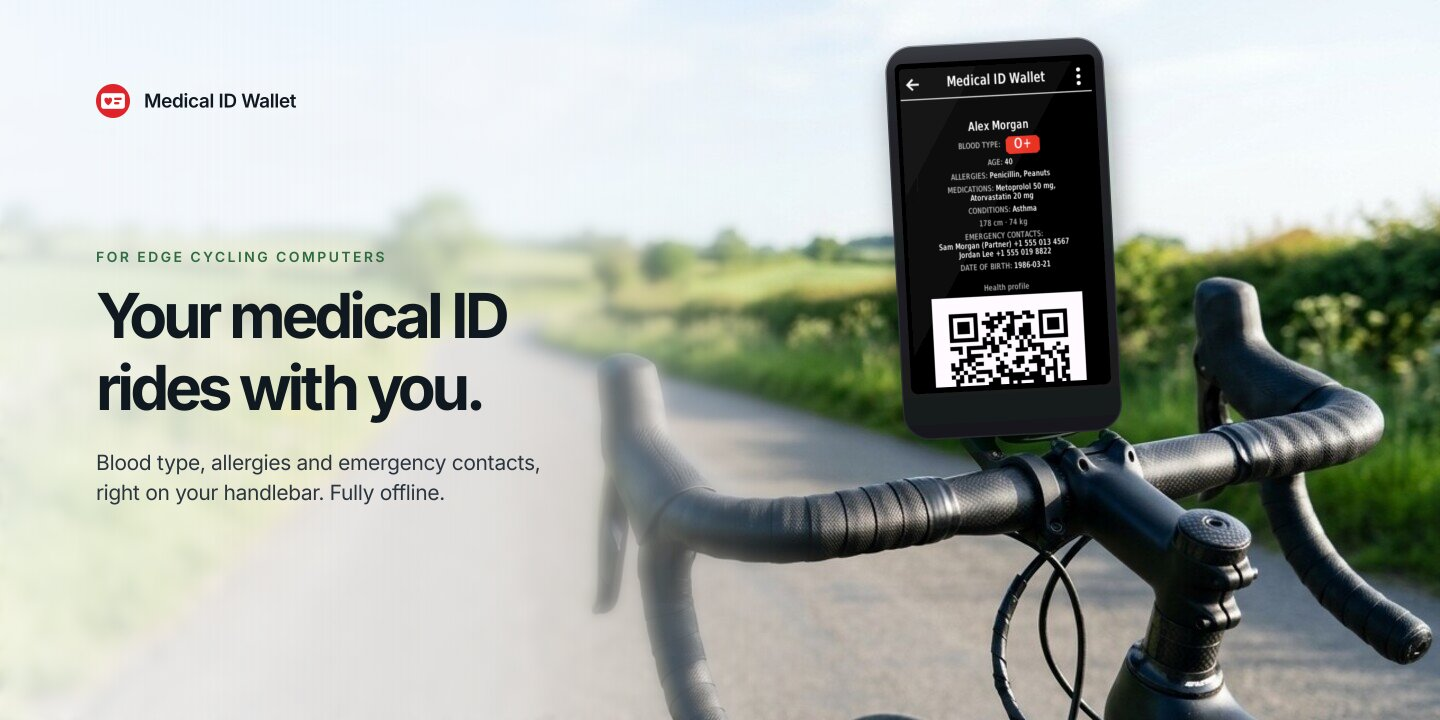
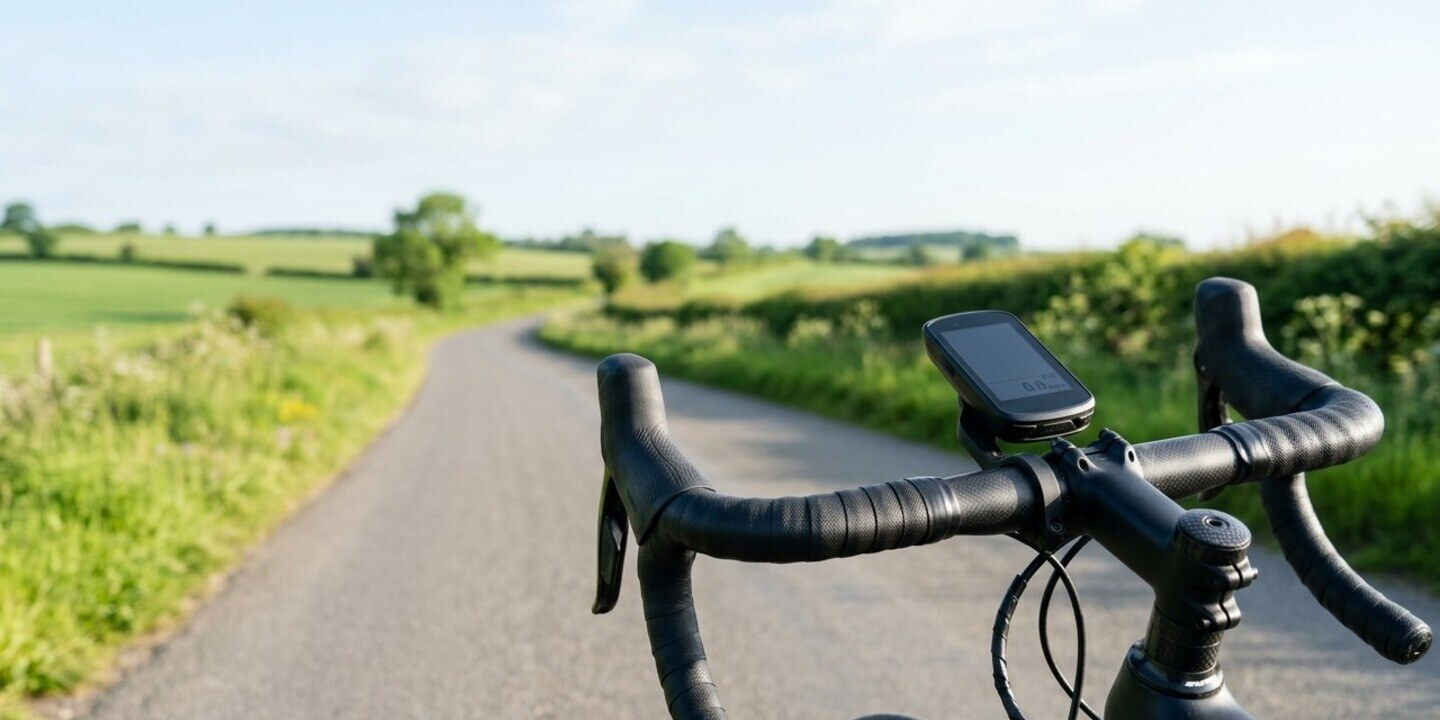
Cover the Edge app in the README and privacy policy, use a plain photo hero
The privacy policy now states that it covers both the widget and the Edge device app, which handle data the same way, and speaks of the device instead of the watch. Edge joins the trademark notices. The Store hero is now the road photo alone, so its SVG source and screen captures are gone.

diff --git a/PRIVACY.md b/PRIVACY.md
@@ -2,11 +2,13 @@
 
 **Developer:** Daniele Gagliardi
 **Contact:** dpgagliardi.dev@gmail.com
-**Last updated:** 11 October 2026
+**Last updated:** 23 October 2026
 
 ## The short version
 
-Medical ID Wallet runs entirely on your Garmin device. The app makes no network requests and transmits nothing to any server, ours or a third party's: we never receive your data and have no way to see it. Note that you enter that data through Garmin Connect Mobile, so it is handled by Garmin's own apps and services on its way to your watch. See [Garmin's role](#garmins-role) below.
+This policy covers Medical ID Wallet in both its forms on the Connect IQ Store: the widget for Garmin watches and older Edge cycling computers, and the device app for the newer Edge computers. Both are built from the same code and handle your data in exactly the same way.
+
+Medical ID Wallet runs entirely on your Garmin device. The app makes no network requests and transmits nothing to any server, ours or a third party's: we never receive your data and have no way to see it. Note that you enter that data through Garmin Connect Mobile, so it is handled by Garmin's own apps and services on its way to your device. See [Garmin's role](#garmins-role) below.
 
 ## What data the user enters
 
@@ -21,21 +23,21 @@ All information shown by Medical ID Wallet is entered voluntarily by the user th
 - Organ donor status
 - An optional value used to generate the barcode
 
-This is sensitive personal and health information. Enter it knowingly, understanding it will be displayed on screen, including to whoever is helping you, every time the widget is opened on your watch.
+This is sensitive personal and health information. Enter it knowingly, understanding it will be displayed on screen, including to whoever is helping you, every time the app is opened on your watch or Edge.
 
 ## Where this data is stored
 
-All fields are saved through Garmin Connect IQ's standard Properties mechanism, on the Garmin device's own storage. Sync between your watch and the Garmin Connect Mobile app on your phone happens over the already-encrypted Bluetooth or ANT+ channel managed by the Garmin ecosystem you have already chosen to use. Medical ID Wallet introduces no transmission channel of its own.
+All fields are saved through Garmin Connect IQ's standard Properties mechanism, on the Garmin device's own storage. Sync between your device and the Garmin Connect Mobile app on your phone happens over the already-encrypted Bluetooth or ANT+ channel managed by the Garmin ecosystem you have already chosen to use. Medical ID Wallet introduces no transmission channel of its own.
 
 ## Garmin's role
 
-We want to be straight about the part we don't control. You fill these fields in inside Garmin Connect Mobile, which is Garmin's app, tied to your Garmin account. The values therefore pass through Garmin's software, and, to the extent Garmin's own settings sync keeps a copy, through Garmin's systems, before and after they reach your watch. What Garmin does with them is governed by [Garmin's privacy policy](https://www.garmin.com/en-US/privacy/global/policy/), not by this one. We have no visibility into it and no control over it.
+We want to be straight about the part we don't control. You fill these fields in inside Garmin Connect Mobile, which is Garmin's app, tied to your Garmin account. The values therefore pass through Garmin's software, and, to the extent Garmin's own settings sync keeps a copy, through Garmin's systems, before and after they reach your device. What Garmin does with them is governed by [Garmin's privacy policy](https://www.garmin.com/en-US/privacy/global/policy/), not by this one. We have no visibility into it and no control over it.
 
 So the accurate statement is not "nobody but you can ever see this". It is: we never receive your data, and the app itself sends it nowhere. If a field is sensitive enough that Garmin holding it would trouble you, leave that field empty. Every field is optional.
 
 ## What the app does with this data
 
-The app reads the saved settings and displays them on screen while the widget is in use, including local generation of a scannable barcode (QR code or Code 39, your choice) from your ID. All processing happens exclusively on device, in real time.
+The app reads the saved settings and displays them on screen while the app is in use, including local generation of a scannable barcode (QR code or Code 39, your choice) from your ID. All processing happens exclusively on device, in real time.
 
 ## What the app does not do
 
@@ -47,9 +49,9 @@ The app reads the saved settings and displays them on screen while the widget is
 
 ## Visibility of data on screen
 
-By its very nature, a medical ID widget is designed to be readable by anyone providing assistance, not just the device owner. Anyone with physical access to your watch can open the widget and see the information you have configured, including the scannable barcode. Only configure the fields you want visible in this way.
+By its very nature, a medical ID app is designed to be readable by anyone providing assistance, not just the device owner. Anyone with physical access to your watch or Edge can open the app and see the information you have configured, including the scannable barcode. Only configure the fields you want visible in this way.
 
-**Before selling or giving away your watch:** since all your medical and personal information is stored directly on the device, remember to reset your watch to factory settings, or clear the app's settings from Garmin Connect Mobile, before selling, gifting or discarding it, so your data doesn't stay accessible to the next owner.
+**Before selling or giving away your watch or Edge:** since all your medical and personal information is stored directly on the device, remember to reset the device to factory settings, or clear the app's settings from Garmin Connect Mobile, before selling, gifting or discarding it, so your data doesn't stay accessible to the next owner.
 
 ## Not a medical device
 
@@ -61,7 +63,7 @@ Any change is made in this file, so its full history is visible in the repositor
 
 ## Trademarks
 
-Not affiliated with, endorsed by or sponsored by Garmin Ltd. Garmin and Connect IQ are trademarks of Garmin Ltd.
+Not affiliated with, endorsed by or sponsored by Garmin Ltd. Garmin, Connect IQ and Edge are trademarks of Garmin Ltd.
 
 ## Contact
 

diff --git a/README.md b/README.md
@@ -1,6 +1,6 @@
 # Medical ID Wallet
 
-A Garmin Connect IQ widget that stores your medical ID information (blood type, allergies, conditions, medications, emergency contacts) directly on your watch or Edge cycling computer, viewable at any time without your phone.
+A Garmin Connect IQ widget (and, on the newer Edge cycling computers, a device app) that stores your medical ID information (blood type, allergies, conditions, medications, emergency contacts) directly on your watch or Edge cycling computer, viewable at any time without your phone.
 
 **Author:** [dpgagliardi](https://github.com/dpgagliardi)
 
@@ -36,15 +36,15 @@ Open **Garmin Connect Mobile** → your device → **Widget Settings** (or **App
 
 **100% offline. Zero network requests.** Medical ID Wallet never collects, transmits, or shares any of your information: nothing is sent to me or to any third party, and the app never touches the network.
 
-One honest caveat: you enter these fields in Garmin Connect Mobile, so the values are handled by Garmin's own apps and services on their way to the watch, under [Garmin's privacy policy](https://www.garmin.com/en-US/privacy/global/policy/) rather than ours. We can't see that and don't control it. Every field is optional, so leave blank anything you'd rather Garmin not hold.
+One honest caveat: you enter these fields in Garmin Connect Mobile, so the values are handled by Garmin's own apps and services on their way to the device, under [Garmin's privacy policy](https://www.garmin.com/en-US/privacy/global/policy/) rather than ours. We can't see that and don't control it. Every field is optional, so leave blank anything you'd rather Garmin not hold.
 
 Full [privacy policy](PRIVACY.md).
 
-**Before selling, gifting, or discarding your watch**, remember to reset it to factory settings (or clear the app's settings in Garmin Connect Mobile) to remove your personal and medical information from the device.
+**Before selling, gifting, or discarding your watch or Edge**, remember to reset it to factory settings (or clear the app's settings in Garmin Connect Mobile) to remove your personal and medical information from the device.
 
 ## Languages
 
-20 languages supported: the watch automatically uses the system language.
+20 languages supported: the app automatically uses the device's system language.
 EN · IT · DE · FR · ES · PT · NL · PL · SV · NO · DA · FI · RU · JA · KO · ZH-S · ZH-T · TR · CS · HU
 
 ## Navigation
@@ -122,9 +122,9 @@ project, in spare time.
 
 ## Trademarks
 
-Not affiliated with, endorsed by or sponsored by Garmin Ltd. Garmin, Connect IQ
-and Garmin Connect are trademarks of Garmin Ltd., named here only to identify
-the platform this software runs on.
+Not affiliated with, endorsed by or sponsored by Garmin Ltd. Garmin, Connect IQ,
+Garmin Connect and Edge are trademarks of Garmin Ltd., named here only to
+identify the platform and devices this software runs on.
 
 ## Licence
 
